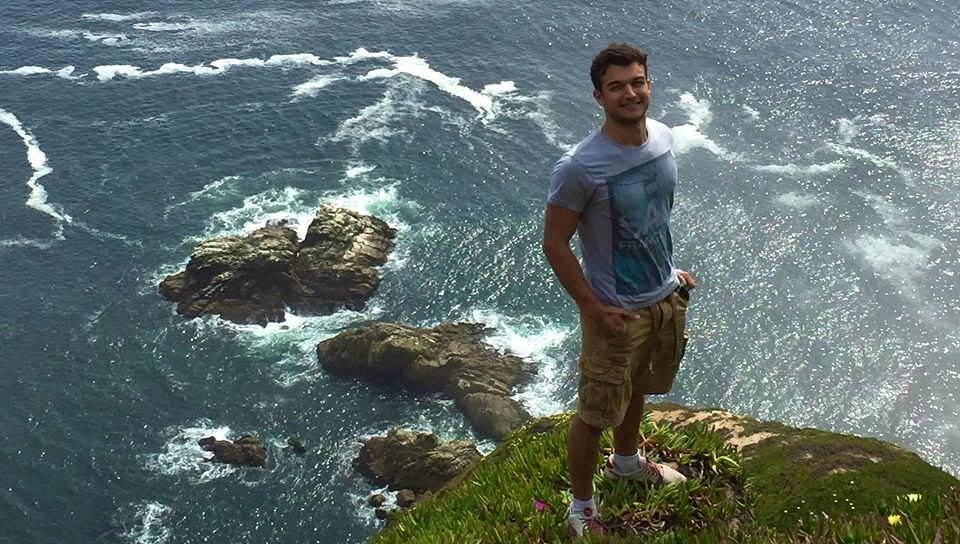
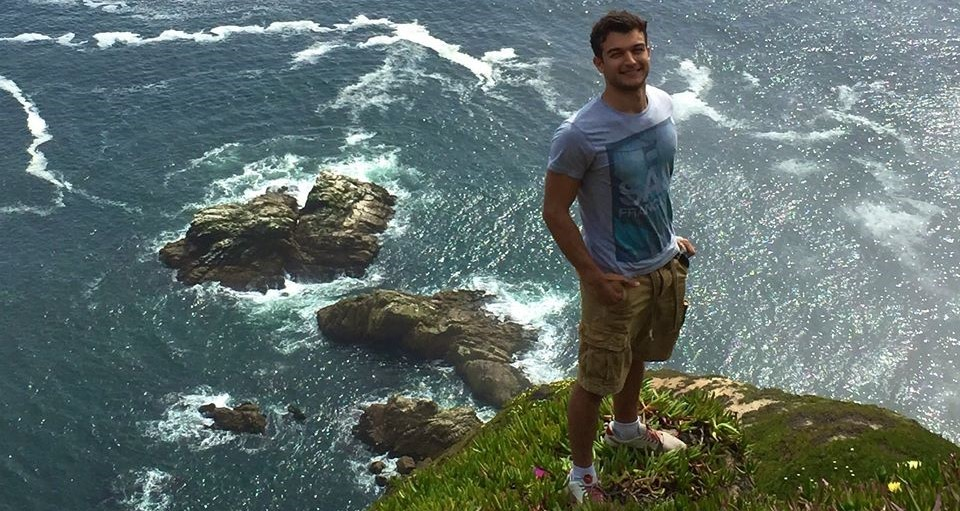
Summary

diff --git a/MainPages/ABOUT.html b/MainPages/ABOUT.html
@@ -17,9 +17,9 @@
                 </g>
             </svg>
 
-            Hello! For those of you who don't know me, I am an Electrical Engineering student at the University of Waterloo, and have a passion for pretty much anything and everything that shocks, jolts, and lights up. As a self-proclaimed "hands-on fanatic," I have been tinkering with electronics and computers all my life. Since I received my first PC and voltmeter, I've enjoyed collecting computer parts, taking apart broken appliances, and making small gadgets of my own. Getting my fingers dirty this way has always been my greatest hobby, and you can see some of my accomplishments in my portfolio pages.
+            Hello! For those of you who don't know me, I am an Electrical Engineering student at the University of Waterloo, and I have a passion for pretty much anything and everything that shocks, jolts, and lights up. As a self-proclaimed "hands-on fanatic," I have been tinkering with electronics and computers all my life. To sum things up, my multimeter is my right-hand man.
             <br>
-            <br>I hope that you enjoy your visit, and that my site speaks for who I am and what I strive for as an electrical engineer. To know a bit more about me or what I do, head over to my <a href="../resume-ShaheenMoubedi.pdf">resume</a>, or send me an <a href="mailto:smoubedi@uwaterloo.ca?body=Hello Shaheen, ">email</a> or <a href="skype:shaheenster?chat">skype</a> invitation.
+            <br>Getting my fingers dirty this way has always been my greatest hobby, and you can see some of my accomplishments in my portfolio pages. To know a bit more about me or what I do, head over to my <a href="../resume-ShaheenMoubedi.pdf">resume</a>, or send me an <a href="mailto:smoubedi@uwaterloo.ca?body=Hello Shaheen, ">email</a> or <a href="skype:shaheenster?chat">skype</a> invitation.
             <br>
             <br>Yours truly,
             <br>Shaheen Moubedi

diff --git a/Style/style-main.css b/Style/style-main.css
@@ -98,7 +98,7 @@ body {
 .bodyImageContainer {
 
 
-    height: 300px;
+    height: 350px;
 
 
     width: auto;
